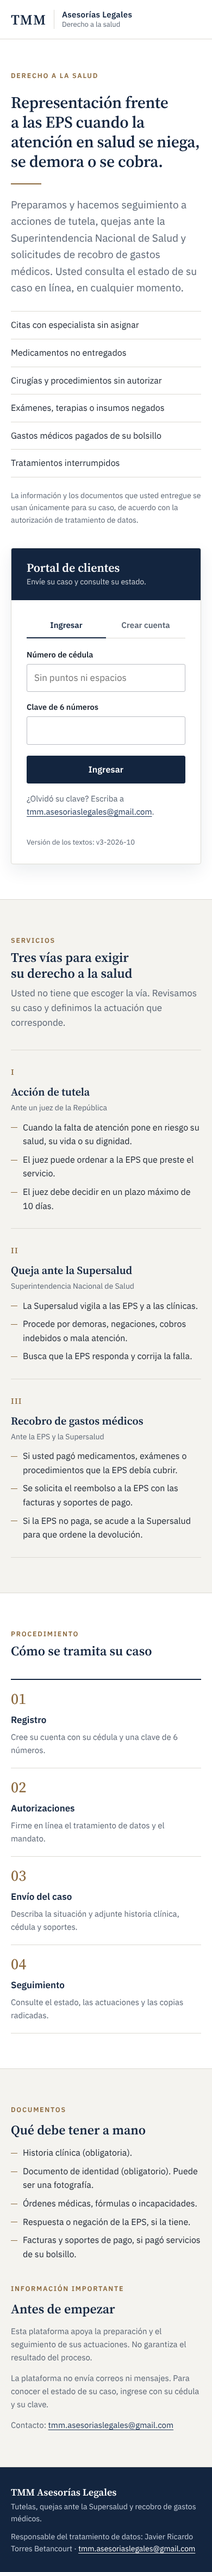
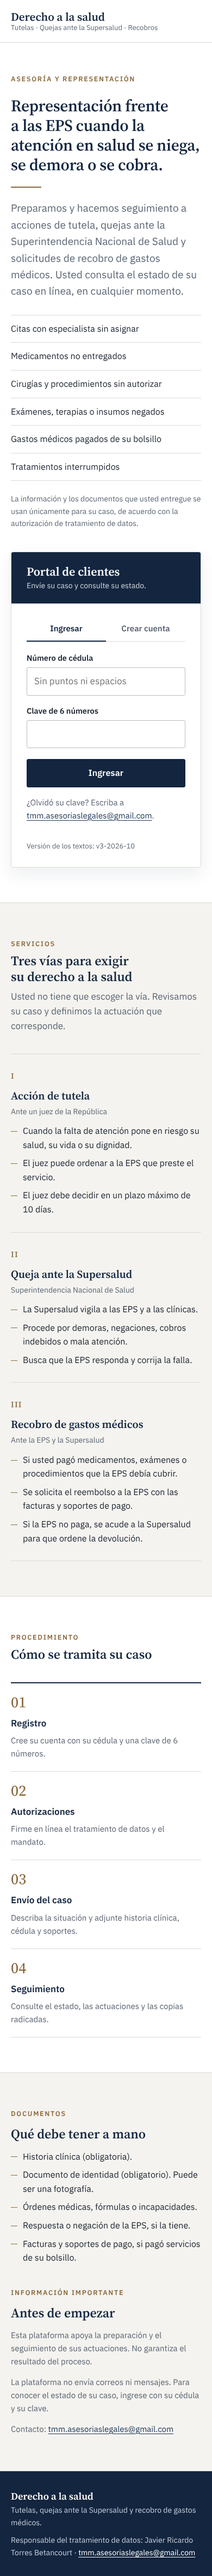
Quitar el nombre de marca de la plataforma
Claude-Session: https://claude.ai/code/session_01GYTghqMLQ9SUiK5ii6QYAi

diff --git a/plataforma-tutelas/index.html b/plataforma-tutelas/index.html
@@ -3,7 +3,7 @@
 <head>
 <meta charset="utf-8">
 <meta name="viewport" content="width=device-width, initial-scale=1">
-<title>TMM Asesorías Legales · Derecho a la salud</title>
+<title>Derecho a la salud · Tutelas, quejas y recobros</title>
 <link rel="preconnect" href="https://fonts.gstatic.com" crossorigin>
 <link rel="stylesheet" href="https://fonts.googleapis.com/css2?family=IBM+Plex+Sans:wght@400;500;600&family=Source+Serif+4:opsz,wght@8..60,500;8..60,600&display=swap">
 <style>
@@ -49,11 +49,7 @@
     display: flex; align-items: center; justify-content: space-between; gap: 16px;
   }
   .brand { display: flex; align-items: center; gap: 14px; min-width: 0; color: var(--navy); }
-  .brand-mono {
-    font-family: "Source Serif 4", Georgia, serif; font-weight: 600; font-size: 26px; letter-spacing: .04em; line-height: 1;
-  }
-  .brand-rule { width: 1px; align-self: stretch; background: var(--line); }
-  .brand-name { font-size: 15px; font-weight: 600; letter-spacing: .02em; line-height: 1.25; }
+  .brand-name { font-family: "Source Serif 4", Georgia, serif; font-size: 21px; font-weight: 600; line-height: 1.2; }
   .brand-sub { font-size: 13px; color: var(--muted); line-height: 1.25; }
   .topnav { display: flex; gap: 24px; font-size: 15px; }
   .topnav a { color: var(--muted); text-decoration: none; }
@@ -240,11 +236,9 @@
 <header class="topbar">
   <div class="topbar-in">
     <div class="brand">
-      <span class="brand-mono">TMM</span>
-      <span class="brand-rule" aria-hidden="true"></span>
       <div>
-        <div class="brand-name">Asesorías Legales</div>
-        <div class="brand-sub">Derecho a la salud</div>
+        <div class="brand-name">Derecho a la salud</div>
+        <div class="brand-sub">Tutelas · Quejas ante la Supersalud · Recobros</div>
       </div>
     </div>
     <nav id="navPortada" class="topnav" aria-label="Secciones">
@@ -266,7 +260,7 @@
   <!-- ============ PORTADA + INGRESO Y REGISTRO ============ -->
   <div id="vPortada" class="acceso-grid hidden">
     <section class="hero" aria-labelledby="heroTitulo">
-      <p class="kicker">Derecho a la salud</p>
+      <p class="kicker">Asesoría y representación</p>
       <h1 id="heroTitulo">Representación frente a las EPS cuando la atención en salud se niega, se demora o se cobra.</h1>
       <span class="rule" aria-hidden="true"></span>
       <p class="big">Preparamos y hacemos seguimiento a acciones de tutela, quejas ante la Superintendencia Nacional de Salud y solicitudes de recobro de gastos médicos. Usted consulta el estado de su caso en línea, en cualquier momento.</p>
@@ -579,7 +573,7 @@
 <footer class="pie">
   <div class="inner">
     <div>
-      <strong>TMM Asesorías Legales</strong>
+      <strong>Derecho a la salud</strong>
       <p>Tutelas, quejas ante la Supersalud y recobro de gastos médicos.</p>
     </div>
     <p>Responsable del tratamiento de datos: Javier Ricardo Torres Betancourt · <a href="mailto:tmm.asesoriaslegales@gmail.com">tmm.asesoriaslegales@gmail.com</a></p>

diff --git a/plataforma-tutelas/vista-previa.html b/plataforma-tutelas/vista-previa.html
@@ -3,7 +3,7 @@
 <head>
 <meta charset="utf-8">
 <meta name="viewport" content="width=device-width, initial-scale=1">
-<title>TMM Asesorías Legales · Derecho a la salud</title>
+<title>Derecho a la salud · Tutelas, quejas y recobros</title>
 <link rel="preconnect" href="https://fonts.gstatic.com" crossorigin>
 <link rel="stylesheet" href="https://fonts.googleapis.com/css2?family=IBM+Plex+Sans:wght@400;500;600&family=Source+Serif+4:opsz,wght@8..60,500;8..60,600&display=swap">
 <style>
@@ -49,11 +49,7 @@
     display: flex; align-items: center; justify-content: space-between; gap: 16px;
   }
   .brand { display: flex; align-items: center; gap: 14px; min-width: 0; color: var(--navy); }
-  .brand-mono {
-    font-family: "Source Serif 4", Georgia, serif; font-weight: 600; font-size: 26px; letter-spacing: .04em; line-height: 1;
-  }
-  .brand-rule { width: 1px; align-self: stretch; background: var(--line); }
-  .brand-name { font-size: 15px; font-weight: 600; letter-spacing: .02em; line-height: 1.25; }
+  .brand-name { font-family: "Source Serif 4", Georgia, serif; font-size: 21px; font-weight: 600; line-height: 1.2; }
   .brand-sub { font-size: 13px; color: var(--muted); line-height: 1.25; }
   .topnav { display: flex; gap: 24px; font-size: 15px; }
   .topnav a { color: var(--muted); text-decoration: none; }
@@ -241,11 +237,9 @@
 <header class="topbar">
   <div class="topbar-in">
     <div class="brand">
-      <span class="brand-mono">TMM</span>
-      <span class="brand-rule" aria-hidden="true"></span>
       <div>
-        <div class="brand-name">Asesorías Legales</div>
-        <div class="brand-sub">Derecho a la salud</div>
+        <div class="brand-name">Derecho a la salud</div>
+        <div class="brand-sub">Tutelas · Quejas ante la Supersalud · Recobros</div>
       </div>
     </div>
     <nav id="navPortada" class="topnav" aria-label="Secciones">
@@ -267,7 +261,7 @@
   <!-- ============ PORTADA + INGRESO Y REGISTRO ============ -->
   <div id="vPortada" class="acceso-grid hidden">
     <section class="hero" aria-labelledby="heroTitulo">
-      <p class="kicker">Derecho a la salud</p>
+      <p class="kicker">Asesoría y representación</p>
       <h1 id="heroTitulo">Representación frente a las EPS cuando la atención en salud se niega, se demora o se cobra.</h1>
       <span class="rule" aria-hidden="true"></span>
       <p class="big">Preparamos y hacemos seguimiento a acciones de tutela, quejas ante la Superintendencia Nacional de Salud y solicitudes de recobro de gastos médicos. Usted consulta el estado de su caso en línea, en cualquier momento.</p>
@@ -580,7 +574,7 @@
 <footer class="pie">
   <div class="inner">
     <div>
-      <strong>TMM Asesorías Legales</strong>
+      <strong>Derecho a la salud</strong>
       <p>Tutelas, quejas ante la Supersalud y recobro de gastos médicos.</p>
     </div>
     <p>Responsable del tratamiento de datos: Javier Ricardo Torres Betancourt · <a href="mailto:tmm.asesoriaslegales@gmail.com">tmm.asesoriaslegales@gmail.com</a></p>
